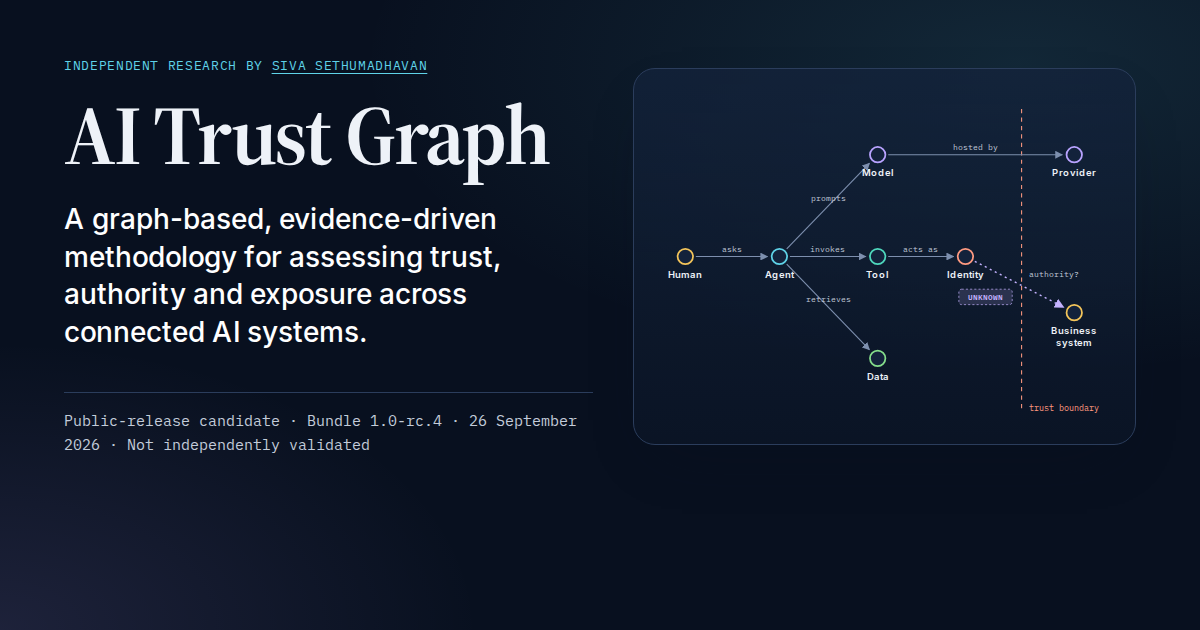
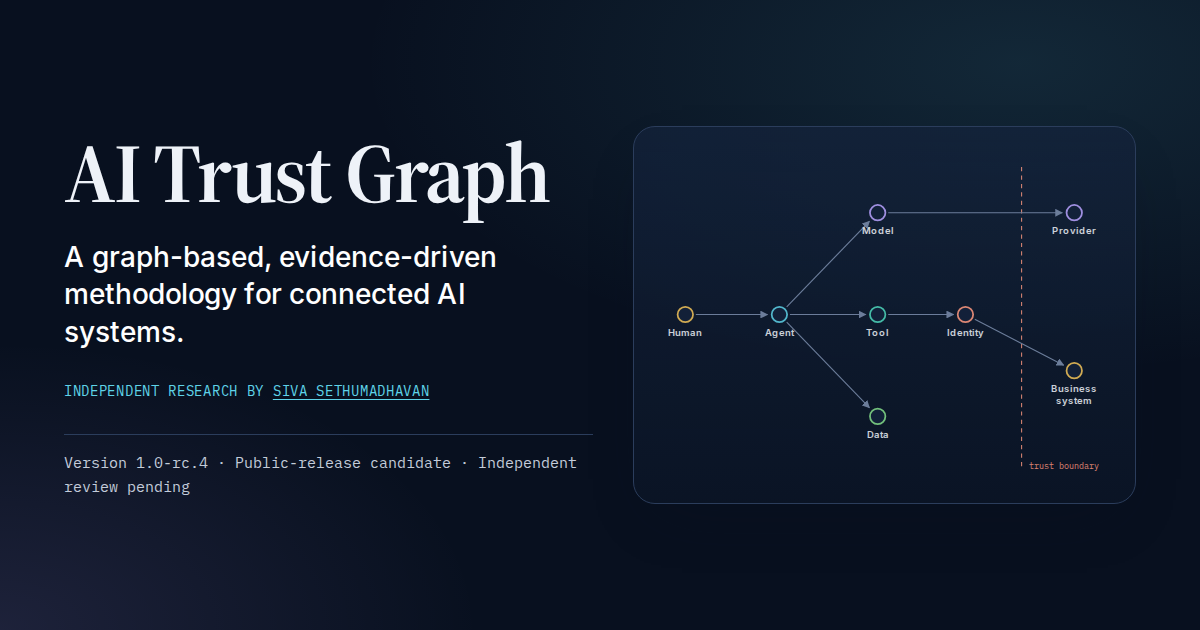
website: pre-LinkedIn polish from the review
- One vocabulary for edge states: the legend, inspector and pills now all
  read 'Supported', 'Inferred' and 'UNKNOWN' (the legend renders stateLabel
  so they cannot drift again).
- Hero metadata keeps one review qualifier ('Independent review pending');
  the status section still states 'not independently validated'.
- The ROADMAP-versus-manifest licence note is removed from the site; the
  difference stays tracked in the repository.
- The social preview image is regenerated from the current hero, so its line
  matches the site.

Claude-Session: https://claude.ai/code/session_01PQ6USvukmECwBQQY8h9xBC

diff --git a/website/app/content.ts b/website/app/content.ts
@@ -484,7 +484,9 @@ export const breakpointEffects = ["Stop", "Constrain", "Detect", "Contain"];
  * Source: METHODOLOGY_MANIFEST.md §6 (validation status): the external release
  * gates still pending, verbatim except for the initial capital and list
  * punctuation. check-claims compares this list with the manifest. The manifest
- * controls gate status; see `roadmapNote` for the ROADMAP difference.
+ * controls gate status. (ROADMAP.md records the licence choice as made while the
+ * manifest lists legal approval as pending; that difference is tracked in the
+ * repository, not shown on the site.)
  */
 export const pendingGates = [
   "Independent methodology / architecture review",
@@ -506,11 +508,3 @@ export const closedGates = [
   },
 ];
 
-/**
- * ROADMAP.md Phase 2 ticks the "Licence and trademark decision" (CC BY 4.0 chosen)
- * while noting it is not yet legally final; METHODOLOGY_MANIFEST §6 still lists
- * legal approval of the licence / trademark position as a pending gate. The site
- * follows the manifest and states the difference rather than reconciling it.
- */
-export const roadmapNote =
-  "Gate status follows METHODOLOGY_MANIFEST §6. ROADMAP.md records the licence choice (CC BY 4.0) as made; the manifest still lists legal approval of the licence / trademark position as pending.";

diff --git a/website/app/components/site/SignatureGraph.tsx b/website/app/components/site/SignatureGraph.tsx
@@ -284,13 +284,13 @@ export function SignatureGraph() {
           </p>
           <ul aria-labelledby="sig-legend-title">
             <li>
-              <span className="lgLine lgObserved" aria-hidden="true" /> Supported: approved, with evidence linked
+              <span className="lgLine lgObserved" aria-hidden="true" /> {stateLabel.observed}
             </li>
             <li>
-              <span className="lgLine lgCandidate" aria-hidden="true" /> Inferred: proposed, awaiting evidence
+              <span className="lgLine lgCandidate" aria-hidden="true" /> {stateLabel.candidate}
             </li>
             <li>
-              <span className="lgLine lgUnknown" aria-hidden="true" /> UNKNOWN: evidence absent or insufficient
+              <span className="lgLine lgUnknown" aria-hidden="true" /> {stateLabel.unknown}
             </li>
             <li>
               <span className="lgDiamond" aria-hidden="true" /> Conditional: what must be true

diff --git a/website/app/components/site/Hero.tsx b/website/app/components/site/Hero.tsx
@@ -1,4 +1,4 @@
-import { links, notValidatedShort, release, reviewStatus } from "../../content";
+import { links, release, reviewStatus } from "../../content";
 import { author } from "../../site-content";
 import { HeroGraph } from "./HeroGraph";
 
@@ -52,8 +52,6 @@ export function Hero() {
             <span>{release.status}</span>
             <Sep />
             <span>{reviewStatus[1]}</span>
-            <Sep />
-            <span>{notValidatedShort}</span>
             <span className="visuallyHidden">
               , snapshot <time dateTime={release.snapshot}>{release.snapshotLabel}</time>
             </span>

diff --git a/website/app/components/site/LaterSections.tsx b/website/app/components/site/LaterSections.tsx
@@ -9,7 +9,6 @@ import {
   pendingGates,
   release,
   reviewStatus,
-  roadmapNote,
 } from "../../content";
 import { citations, isPublished, publication } from "../../publication";
 import { author } from "../../site-content";
@@ -348,7 +347,6 @@ export function StatusReview() {
               ))}
             </ul>
             <p className="canonQuote canonQuoteSmall">{manifestGatePrinciple}</p>
-            <p className="smallNote">{roadmapNote}</p>
           </div>
         </div>
         <SourceNote>

diff --git a/website/app/components/site/signatureData.ts b/website/app/components/site/signatureData.ts
@@ -196,7 +196,7 @@ export const sigOrder = [
 ] as const;
 
 export const stateLabel: Record<SigState, string> = {
-  observed: "Observed (approved assertion)",
-  candidate: "Proposed or inferred (candidate)",
-  unknown: "UNKNOWN",
+  observed: "Supported: approved, with evidence linked",
+  candidate: "Inferred: proposed, awaiting evidence",
+  unknown: "UNKNOWN: evidence absent or insufficient",
 };

diff --git a/website/DESIGN_BRIEF.md b/website/DESIGN_BRIEF.md
@@ -185,8 +185,8 @@ queries): 600px, 768px, 900px, 1024px, 960px (navigation), 1280px.
   Methodology v1.0, Evidence Model v1.0 and MCL v1.0). The library lists
   dependencies by artifact number only.
 - ROADMAP.md records the licence choice as made; METHODOLOGY_MANIFEST §6
-  lists legal approval as pending. The site follows the manifest and states
-  the difference.
+  lists legal approval as pending. The site follows the manifest; the
+  difference is tracked in the repository and no longer shown on the site.
 - The brief's evidence-state vocabulary is not canonical (decision 5).
 - No verified LinkedIn, ORCID or Zenodo URL exists yet (decision 17). The
   Zenodo profile follows the whitepaper upload.
